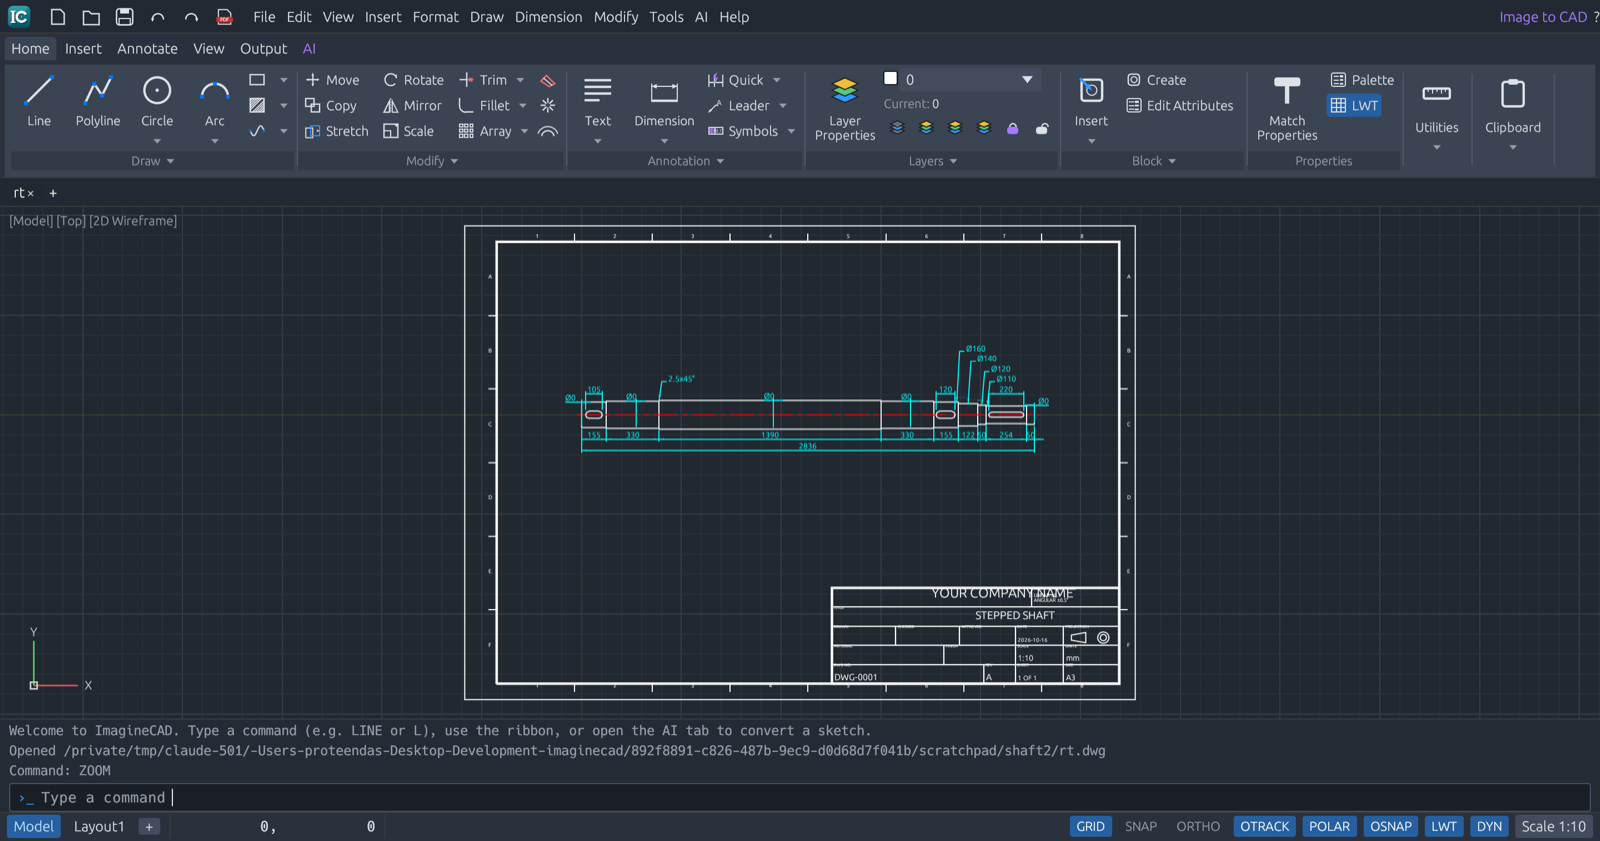
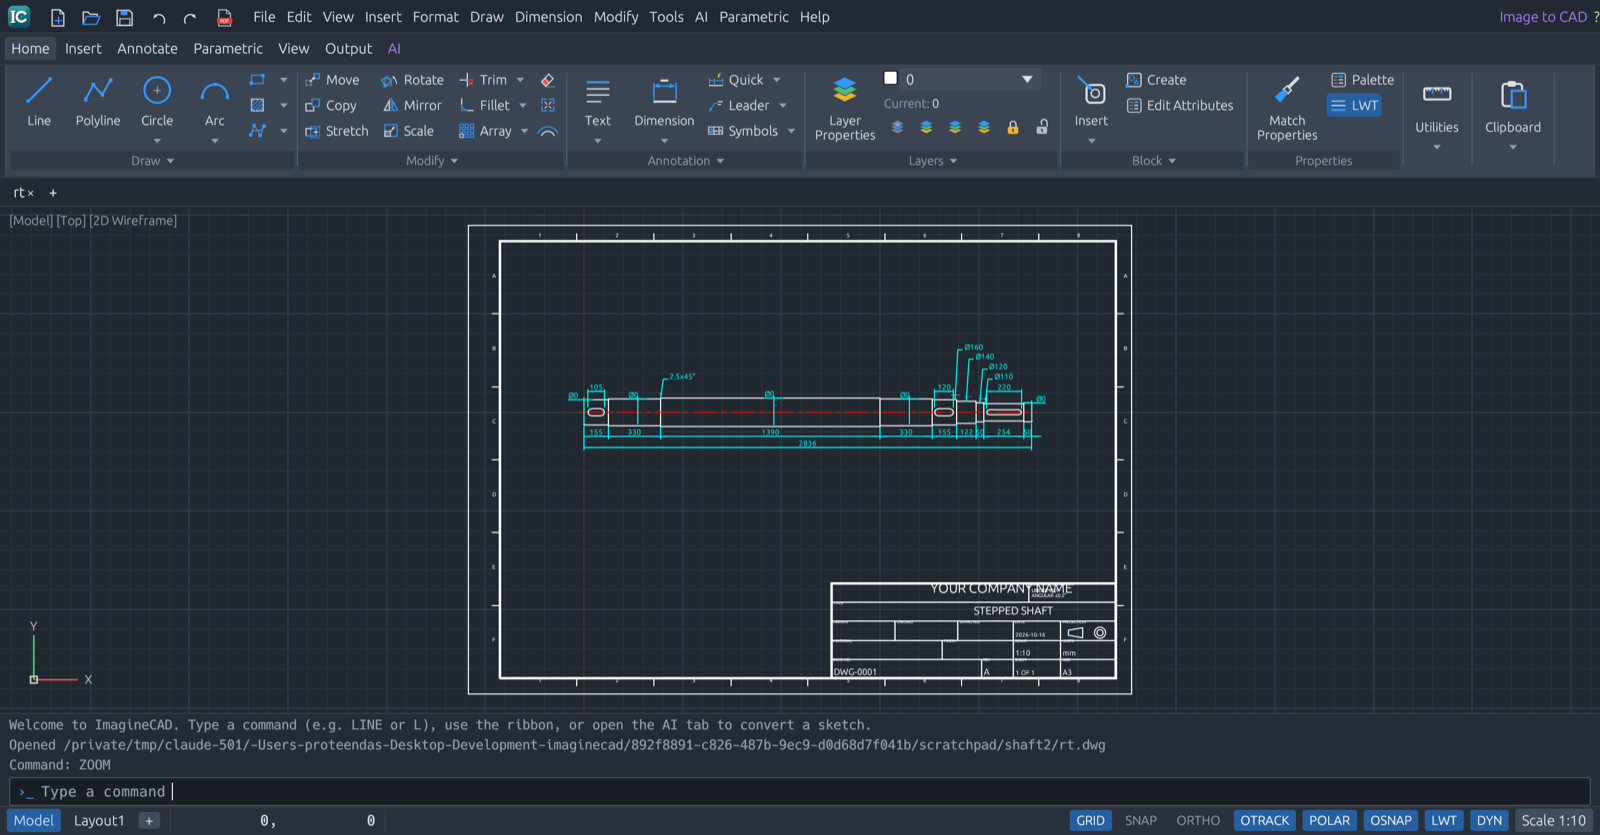
Release 0.4.0
- Version 0.4.0; changelog, roadmap (0.4 current, 0.5 next), user guide
  (sheet sets, markup and parts lists, dimension text, parametric
  drafting), AI guide (gears, springs, line types and hatching), file
  formats (revision clouds, constraints, .icadset) and architecture.
- Fresh screenshots with the new icons, and one of parametric drafting.
- RIBBON command to show a ribbon tab by name.

diff --git a/crates/imaginecad/src/app.rs b/crates/imaginecad/src/app.rs
@@ -397,6 +397,14 @@ impl App {
             "XREF" | "XR" | "EXTERNALREFERENCES" => self.dlg.xref = true,
             "SHEETSET" | "SSM" | "SHEETSETMANAGER" => self.dlg.sheetset = true,
             "PARAMETERS" | "PAR" | "PARAM" => self.dlg.parameters = true,
+            "RIBBON" => {
+                // Show a ribbon tab by name (RIBBON PARAMETRIC).
+                let want = args.first().map(|a| a.to_ascii_lowercase()).unwrap_or_default();
+                match crate::ribbon::TABS.iter().position(|t| t.to_ascii_lowercase().starts_with(&want) && !want.is_empty()) {
+                    Some(i) => self.ribbon_tab = i,
+                    None => self.log.push(format!("Ribbon tabs: {}", crate::ribbon::TABS.join(", "))),
+                }
+            }
             "CONSTRAINTBAR" | "CBAR" => {
                 self.settings.show_constraints ^= true;
                 self.log.push(format!("Constraint glyphs {}.", if self.settings.show_constraints { "shown" } else { "hidden" }));

diff --git a/crates/imaginecad/src/menus.rs b/crates/imaginecad/src/menus.rs
@@ -70,6 +70,7 @@ pub const MENUS: &[(&str, &[Entry])] = &[
             ("Paper Layout", "LAYOUT"),
             ("Model", "MODEL"),
             ("-", ""),
+            ("Parametric Ribbon", "RIBBON PARAMETRIC"),
             ("Properties Palette", "PROPERTIES"),
             ("AI Chat Panel", "AICHAT"),
         ],

diff --git a/crates/imaginecad/src/commands.rs b/crates/imaginecad/src/commands.rs
@@ -340,6 +340,7 @@ pub const COMMANDS: &[(&str, &str)] = &[
     ("DELCONSTRAINT", "DELCON"),
     ("PARAMETERS", "PAR"),
     ("CONSTRAINTBAR", "CBAR"),
+    ("RIBBON", ""),
     ("DIMARRANGE", "DARR"),
     ("BOM", ""),
     ("BALLOON", "BAL"),

diff --git a/docs/AI_SKETCH_TO_CAD.md b/docs/AI_SKETCH_TO_CAD.md
@@ -102,6 +102,8 @@ accepts `--api-key` (auto-detected the same way).
    - **Part reconstruction.** The model also describes the part, using the written values:
      - a turned **shaft** (stepped diameters, keyways, chamfers);
      - a **round part**: ring, washer, bush, flange (hub, bolt circle), wheel or pulley (rim, web, hub, V-grooves, bore keyway), drawn as an end view plus a hatched section;
+     - a **spur gear** (module, number of teeth, pressure angle, face width, bore, hub, keyway), drawn with true involute teeth, a hatched section and a gear data table;
+     - a helical **compression spring** (wire, outside diameter, free length, active and total coils, ground ends), drawn in section with a spring data table;
      - a rectangular **plate** with holes;
      - any other **profile**: exact lines, arcs, circles and polylines in millimetres, with views placed in projection, plus the dimensions it read.
      ImagineCAD builds the drawing directly from that description, with every value dimensioned and the dimensions laid out clear of the part and of each other on a sheet sized for it. Turn this off with **Let AI rebuild the part exactly from the written dimensions**.
@@ -109,12 +111,13 @@ accepts `--api-key` (auto-detected the same way).
      - against the values the model read: every written length, diameter and angle must be used, and every diameter in the description must be written;
      - for gaps: a step or groove without a size;
      - for a profile, by measuring every dimension on its own geometry, and checking that its points lie on that geometry.
-     A description with problems is sent back once with the list of problems ("the sketch shows Ø140 but no segment has that diameter", "the dimension 50 measures 48 on the geometry"). If it still does not check out, it is not drawn: the sketch is traced with the values instead (steps 2–6) and the reason is reported.
+     A description with problems is sent back once with the list of problems ("the sketch shows Ø140 but no segment has that diameter", "the dimension 50 measures 48 on the geometry"). If it still does not check out, it is not drawn: the sketch is traced with the values instead (steps 2–7) and the reason is reported.
 2. **Vectorising (computer vision).** Adaptive thresholding, removal of handwriting, specks and a printed sheet border, Zhang–Suen thinning, skeleton tracing, Douglas–Peucker lines and least-squares circle/arc fits. An arc is accepted only where the stroke curves evenly, so obtuse corners and a straight run meeting a fillet stay separate.
 3. **Part vs. annotation.** Components that enclose real area are the part. For each label the pipeline finds its dimension line, extension lines (following them through outline crossings) and arrowheads; leader arrows decide which hole a Ø/R value belongs to; an angle value goes to the corner it sits in. A label next to an outline edge with no dimension line of its own dimensions that edge.
-4. **Beautification and views.** Snap angles, merge strokes, align coordinates, weld endpoints, close T-junctions. Separate views (front above top, side beside front) are recognised and their edges snapped to each other, so hand-drawn misalignment between views does not carry over.
-5. **Making dimensions true.** The distinct x and y coordinates become *stations*. Horizontal and vertical dimensions are hard constraints, undimensioned gaps are springs that keep the sketch's proportions, and a least-squares solve per axis repositions everything through a monotone map. Contradictory dimensions are dropped and reported.
-6. **Slanted lengths, angles and radii.** A Levenberg–Marquardt solve over the outline vertices then enforces what one axis at a time cannot: slanted lengths, angles between edges, arc radii and fillet tangency, while horizontal and vertical edges and dimensions stay as solved.
+4. **Drafting conventions.** Rows of short collinear strokes with clear gaps become hidden lines (equal dashes) or centre lines (long and short dashes). A regular family of parallel strokes at about 45° running from edge to edge becomes section hatching filling the regions it covers. Handwriting is not taken for hatching.
+5. **Beautification and views.** Snap angles, merge strokes, align coordinates, weld endpoints, close T-junctions. Separate views (front above top, side beside front) are recognised and their edges snapped to each other, so hand-drawn misalignment between views does not carry over.
+6. **Making dimensions true.** The distinct x and y coordinates become *stations*. Horizontal and vertical dimensions are hard constraints, undimensioned gaps are springs that keep the sketch's proportions, and a least-squares solve per axis repositions everything through a monotone map. Contradictory dimensions are dropped and reported.
+7. **Slanted lengths, angles and radii.** A Levenberg–Marquardt solve over the outline vertices then enforces what one axis at a time cannot: slanted lengths, angles between edges, arc radii and fillet tangency, while horizontal and vertical edges and dimensions stay as solved.
 
 ## Tips
 
@@ -126,7 +129,7 @@ accepts `--api-key` (auto-detected the same way).
 ## Limitations
 
 - How exact a rebuilt part is depends on the model reading the sketch correctly; the checks above stop wrong descriptions, but cannot recover a value no model could read.
-- When tracing (no usable description), section hatching and hidden lines are traced as plain strokes; check them on the `AI-REVIEW` layer.
+- Dense, finely printed hatching (CAD printouts) is traced as strokes rather than recognised as a hatch; hand-drawn hatching is recognised.
 - Very large outlines (more than 160 vertices) skip the slanted/angle refinement; horizontal and vertical dimensions are still exact.
 - Keyway widths that are not written on the sketch are drawn at a nominal width; check them.
 - Threads and surface-finish symbols are not recognised.

diff --git a/docs/USER_GUIDE.md b/docs/USER_GUIDE.md
@@ -328,6 +328,78 @@ sheet, drawn over the model) and any number of **paper layouts**:
 
 Layouts are saved in `.icad` drawings; DXF/DWG exports contain the main sheet.
 
+## Sheet sets
+
+`SHEETSET` (`SSM`, Output → Sheet Set) opens the **Sheet Set Manager**: a
+named, ordered set of sheets from any number of drawings, saved as an
+`.icadset` file next to them (double-click it to open the manager).
+
+- **+ Current drawing** / **+ Drawings…** add each drawing's main sheet and its
+  layouts. Give every sheet a number and a title; **Renumber** numbers them in
+  order; ▲ ▼ reorder, × removes, **Open** shows the sheet.
+- The **project values** (company, drawn, checked and approved by, a drawing
+  number prefix such as `GB-`) are shared by every title block.
+- **Publish set to PDF…** plots every sheet into one PDF with its set number,
+  title and `n OF N` in its title block, without changing the drawings
+  (`imaginecad publish SET.icadset -o OUT.pdf` does the same from a script).
+- **Update title blocks** writes the numbering and values into the drawings
+  themselves (open drawings change as one undo step; closed ones are saved).
+- **Insert sheet list** places a sheet index table in the current drawing.
+
+## Markup and parts lists
+
+- **Revision clouds** (`REVCLOUD`, `RC`; Annotate → Markup): two corners for a
+  rectangular cloud, **P** for a polygonal one, **O** to turn a closed
+  polyline, circle or ellipse into a cloud, **A** for the arc length (scaled to
+  the sheet by default). Grips move the cloud's corners.
+- **Bill of materials** (`BOM`): a parts list built from the block references
+  in the drawing, one item per block and set of attribute values, with the
+  quantity counted and columns for `PART_NO`, `DESCRIPTION`, `MATERIAL` and
+  any other attributes (the block name describes blocks without attributes).
+  Run `BOM` again after changes to refresh it in place.
+- **Balloons** (`BALLOON`): Enter balloons every BOM item at once, round the
+  drawing, each in the direction of its part and spread so they keep clear of
+  each other; or pick one part and place its balloon.
+
+## Keeping dimension text clear
+
+Dimension text moves itself to the nearest clear place when it would overlap
+other text or run through the part: along its dimension line first, then one
+row further out (radius and diameter text swings round the circle). This
+happens when a dimension is placed and when the points it measures move;
+text you drag on purpose stays where you put it. `DIMARRANGE` (`DARR`) tidies
+selected dimensions, or all of them, for drawings made elsewhere.
+
+## Parametric drafting
+
+Constraints keep relationships true while you edit (Parametric tab and menu).
+
+**Geometric constraints** apply to lines, polyline segments, circles and arcs:
+`GCHORIZONTAL`, `GCVERTICAL`, `GCPARALLEL`, `GCPERPENDICULAR`, `GCCOLLINEAR`,
+`GCEQUAL` (lengths or radii), `GCCOINCIDENT` (two points), `GCCONCENTRIC`,
+`GCTANGENT` (line and circle, or two circles), `GCFIX` (hold a point).
+`AUTOCONSTRAIN` (`AC`) adds the obvious ones to a selection: horizontal and
+vertical edges, joined end points, tangent arcs, concentric circles.
+
+**Driving dimensions** set sizes by name: `DCHORIZONTAL`, `DCVERTICAL`,
+`DCALIGNED`, `DCRADIUS`, `DCDIAMETER`, `DCANGULAR`. Each is named `d1`, `d2`,
+… and takes a value or an expression of the others, for example `d2 = d1 / 2`
+or `d3 = sqrt(d1^2 + d2^2)` (operators `+ - * / ^`, `sqrt`, `sin`, `cos`,
+`tan` in degrees, `abs`, `pi`). Type it when placing the dimension, or edit it
+in the **Parameters** manager (`PARAMETERS`, `PAR`); the geometry follows, and
+grows from the dimension's first point.
+
+After every edit the constraints are solved again: what you drag or move
+stays exactly where you put it when the constraints allow, and the rest
+adapts. A constraint that contradicts the others is refused. The log reports
+how many degrees of freedom remain (0 = fully constrained).
+
+Teal glyphs mark the constraints (H, V, //, ⊥, =, T, ◎, F; a dot for
+coincident points) and driving dimensions show as `d1=50`; neither is plotted.
+`CONSTRAINTBAR` (`CBAR`) hides or shows the glyphs; `DELCONSTRAINT` removes the
+constraints of the selected objects (or all). Constraints are saved in `.icad`
+drawings; DXF and DWG files keep the geometry only.
+
 ## Files
 
 | Action | Formats |

diff --git a/README.md b/README.md
@@ -39,6 +39,7 @@
 
 ## Highlights
 
+- **Parametric drafting.** Geometric constraints (parallel, tangent, coincident…) and named driving dimensions with expressions (`d2 = d1 / 2`) keep a design's relationships true as you edit.
 - **Industry-standard drafting workflow.** Ribbon that fits any window, a menu bar with every command, command line with aliases and autocomplete, object snaps, polar tracking, ortho, grips, layers, a properties palette, blocks, hatching, dimensions and leaders, model and paper layouts.
 - **Open, edit and save DWG and DXF.** DWG support ships inside the installer (GNU LibreDWG), and the free ODA File Converter is used automatically when installed. DXF 2000 is written natively with full fidelity, or R12 for maximum compatibility.
 - **Image to CAD.** Upload a photo of a hand-drawn mechanical sketch. An AI model reads the handwritten dimensions and describes the part (shafts, rings, flanges, pulleys, plates, or any profile); the description is validated against the written values and its own geometry before it is drawn. Otherwise computer vision traces the sketch and a solver makes every dimension exact, including slanted lengths, angles and fillet radii, across aligned views. You get an editable drawing with a title block, with the sketch overlaid for review.
@@ -50,9 +51,9 @@
 |---|---|
 | ![sketch](docs/images/ai.png) | ![layout](docs/images/layout.png) |
 
-| A DWG file opened for editing |
-|---|
-| ![DWG](docs/images/dwg.png) |
+| A DWG file opened for editing | Parametric drafting |
+|---|---|
+| ![DWG](docs/images/dwg.png) | ![Parametric](docs/images/parametric.png) |
 
 ## Feature overview
 
@@ -60,12 +61,14 @@
 |---|---|
 | Draw | `LINE` `PLINE` `CIRCLE` `ARC` `RECTANG` `POLYGON` `ELLIPSE` `SPLINE` `POINT` `XLINE` `RAY` `HATCH` |
 | Modify | `MOVE` `COPY` `ROTATE` `SCALE` `MIRROR` `STRETCH` `OFFSET` `TRIM` `EXTEND` `FILLET` `CHAMFER` `BREAK` `BREAKATPOINT` `JOIN` `LENGTHEN` `ARRAYRECT` `ARRAYPOLAR` `EXPLODE` `ERASE` `OOPS` `MATCHPROP` `DIVIDE` `MEASURE` `OVERKILL` |
-| Annotate | `TEXT` `MTEXT` `TEXTEDIT` `LEADER` `DIMLINEAR` `DIMALIGNED` `DIMANGULAR` `DIMRADIUS` `DIMDIAMETER` `DIMBASELINE` `DIMCONTINUE` `CENTERMARK` `DIMSTYLE` |
+| Annotate | `TEXT` `MTEXT` `TEXTEDIT` `LEADER` `MLEADER` `DIMLINEAR` `DIMALIGNED` `DIMANGULAR` `DIMRADIUS` `DIMDIAMETER` `DIMORDINATE` `DIMARC` `QDIM` `DIMBASELINE` `DIMCONTINUE` `DIMARRANGE` `CENTERMARK` `DIMSTYLE` `TOLERANCE` `DATUM` `SURFFINISH` `WELD` `TABLE` `STYLE` `SPELL` |
+| Markup | `REVCLOUD`, `BOM` (bill of materials), `BALLOON` |
+| Parametric | `GCHORIZONTAL` `GCVERTICAL` `GCPARALLEL` `GCPERPENDICULAR` `GCCOLLINEAR` `GCEQUAL` `GCCOINCIDENT` `GCCONCENTRIC` `GCTANGENT` `GCFIX` `AUTOCONSTRAIN`, driving dimensions `DCHORIZONTAL` `DCVERTICAL` `DCALIGNED` `DCRADIUS` `DCDIAMETER` `DCANGULAR`, `PARAMETERS` |
 | Blocks & references | `BLOCK` `INSERT` Blocks palette, `IMAGEATTACH` raster underlays, `PURGE` |
 | Layers | Layer Properties Manager, `LAYISO` `LAYUNISO` `LAYOFF` `LAYON` `LAYLCK` `LAYULK` `LAYMCUR` |
 | Inquiry & selection | `DIST` `AREA` `ID` `LIST` `QSELECT` `SELECTALL` |
 | Precision | typed coordinates (`x,y`, `@dx,dy`, `@d<a`), direct distance, object snaps (end, mid, center, quadrant, intersection, perpendicular, insertion, node, nearest), polar tracking, ortho, grid snap, dynamic input |
-| Sheets & output | paper sizes A4–A0/ANSI, ISO scales, title block, `PLOT` to PDF, export DWG/DXF/SVG, `UNITS` |
+| Sheets & output | paper sizes A4–A0/ANSI, ISO scales, title block, layouts and viewports (`LAYOUTNEW` `MVIEW`), plot styles, `PLOT` to PDF, `PUBLISH`, sheet sets (`SHEETSET`), export DWG/DXF/SVG, `UNITS` |
 | AI | `IMAGETOCAD`, `AICHAT` (edit by conversation), `AISETUP` (any API key), `AISETTINGS`, headless `imaginecad convert` and `imaginecad ask` |
 
 See the [User Guide](docs/USER_GUIDE.md) for every command and option.

diff --git a/docs/ARCHITECTURE.md b/docs/ARCHITECTURE.md
@@ -103,6 +103,20 @@ selection (`select_box`), extents, and ByLayer resolution
 (`color_of`, `linetype_of`, `lineweight_of`). New documents use a mechanical
 template: layers `0`, `OUTLINE`, `HIDDEN`, `CENTER`, `DIMENSIONS`, `TEXT`.
 
+### Constraints, markup, sheet sets (`constraints.rs`, `markup.rs`, `arrange.rs`, `sheetset.rs`)
+
+`constraints.rs` holds geometric constraints and named driving dimensions
+over entity points (`PtRef`: line ends, polyline vertices, circle and arc
+centres and ends) and segments, an expression evaluator for the driving
+values, and the solver: every point of a constrained entity and every circle
+radius is an unknown; a damped Gauss–Newton solve with a weak, re-anchored
+pull to the current geometry meets the constraints while moving it least;
+preferred points (what the user dragged) are first held exactly. The rank of
+the constraint Jacobian gives the remaining degrees of freedom. `markup.rs`
+has revision clouds and the bill of materials with balloon placement;
+`arrange.rs` moves dimension text clear of other text and of the part;
+`sheetset.rs` is the `.icadset` model.
+
 ### Sheet and title block (`sheet.rs`)
 The sheet lives in model space: its lower-left corner is `origin` and it spans
 `paper_mm × scale` drawing units. Plotting therefore maps model space to paper
@@ -205,6 +219,9 @@ A detailed walk-through is in [AI_SKETCH_TO_CAD.md](AI_SKETCH_TO_CAD.md).
 | `dialogs2.rs` | Blocks palette, Quick Select, text editor, Units |
 | `secrets.rs` | API key storage (Keychain / Credential Manager / owner-only file) |
 | `ribbon.rs`, `icons.rs` | Ribbon tabs/panels (collapsing to dropdowns to fit the window) and vector-drawn icons |
+| `constraints_ui.rs` | Constraint commands, AUTOCONSTRAIN, driving dimensions, the Parameters manager, canvas glyphs, solving after edits |
+| `commands_markup.rs` | REVCLOUD, BOM, BALLOON, DIMARRANGE |
+| `sheetset_ui.rs` | Sheet Set Manager, set publishing |
 | `menus.rs` | The menu bar: every command, grouped, with its alias (a test keeps it complete) |
 | `macos_open.rs` | Finder's open-documents Apple event (double-click, Open With, Dock) |
 | `chat.rs` | AI Chat panel |

diff --git a/CHANGELOG.md b/CHANGELOG.md
@@ -6,6 +6,19 @@ All notable changes to ImagineCAD are documented here. The format follows
 
 ## [Unreleased]
 
+## [0.4.0] - 2026-10-16
+
+### Added
+- **Parametric drafting:** geometric constraints on lines, polyline segments, circles and arcs (`GCHORIZONTAL`, `GCVERTICAL`, `GCPARALLEL`, `GCPERPENDICULAR`, `GCCOLLINEAR`, `GCEQUAL`, `GCCOINCIDENT`, `GCCONCENTRIC`, `GCTANGENT`, `GCFIX`), `AUTOCONSTRAIN`, and named driving dimensions (`DCHORIZONTAL`, `DCVERTICAL`, `DCALIGNED`, `DCRADIUS`, `DCDIAMETER`, `DCANGULAR`) whose values may be expressions of each other, edited in the **Parameters** manager. A least-squares solve keeps every constraint true after each edit, holds what you drag exactly where you put it when possible, refuses conflicting constraints and reports the remaining degrees of freedom. Constraint glyphs and driving dimensions on the canvas (`CONSTRAINTBAR`, `DELCONSTRAINT`); a Parametric ribbon tab and menu.
+- **Revision clouds** (`REVCLOUD`): rectangular, polygonal or from an object, with a settable arc length; saved to DXF/DWG as bulged polylines.
+- **Bill of materials** (`BOM`) built from the block references and their attributes, refreshed in place; **balloons** (`BALLOON`) numbered to match, placed automatically round the drawing or one at a time.
+- **Sheet sets** (`SHEETSET`): sheets from many drawings with numbers, titles and shared title block values; publish the set to one PDF (also `imaginecad publish`), update the drawings' title blocks, insert a sheet list. `.icadset` files open by double-click.
+- **Dimension text keeps clear** of other text and of the part when placed or when its geometry moves; `DIMARRANGE` tidies existing drawings.
+- **Image to CAD:** spur gears with true involute teeth and gear data, compression springs with spring data; hidden lines, centre lines and section hatching recognised when tracing.
+
+### Changed
+- Redesigned icon set: one visual language throughout (neutral line work, blue for what a tool creates, red for what it removes, violet for AI), crisp at every size; new icons for the new tools.
+
 ## [0.3.0] - 2026-10-16
 
 ### Added

diff --git a/docs/ROADMAP.md b/docs/ROADMAP.md
@@ -4,7 +4,30 @@ ImagineCAD's goal is complete day-to-day 2D mechanical drafting at the level
 of mature commercial CAD suites, plus AI sketch conversion. This page is an
 honest map of what exists and what is next.
 
-## 0.3 (current)
+## 0.4 (current)
+
+Everything in 0.3, plus:
+
+**Parametric drafting:** geometric constraints (horizontal, vertical,
+parallel, perpendicular, collinear, equal, coincident, concentric, tangent,
+fix) and named driving dimensions with expressions, solved after every edit;
+AUTOCONSTRAIN; the Parameters manager.
+
+**Markup:** revision clouds, an automatic bill of materials and numbered
+balloons.
+
+**Sheets:** sheet sets with numbering, shared title block values, set
+publishing and sheet lists.
+
+**Annotation:** dimension text that moves itself clear of other text and of
+the part.
+
+**AI:** gears (true involute teeth) and compression springs as part types;
+hidden lines, centre lines and section hatching recognised when tracing.
+
+**Interface:** a redesigned, consistent icon set.
+
+## 0.3
 
 Everything in 0.2, plus:
 
@@ -40,13 +63,13 @@ Core drafting, modify and dimension commands, layers, blocks, hatching, DWG via
 bundled LibreDWG, DXF 2000/R12, PDF/SVG, Image to CAD with any provider's key,
 installers for macOS, Windows and Linux.
 
-## Next (0.4)
+## Next (0.5)
 
-- [ ] Geometric and dimensional constraints (parametric drafting)
-- [ ] Revision clouds, balloons and an automatic bill of materials
-- [ ] Image to CAD: section hatching and hidden lines recognised when tracing; gears and springs as part types
-- [ ] Sheet sets
-- [ ] Dimension text that moves itself clear of other annotation when edited
+- [ ] Constraints round-tripped through DXF/DWG
+- [ ] Dynamic blocks (stretch, flip, visibility, lookup parameters)
+- [ ] Image to CAD: threads and surface-finish symbols recognised; multi-part assembly sketches with a BOM
+- [ ] Section views generated from a cutting line (SECTIONVIEW) and detail views
+- [ ] Plot stamps and PDF/A output
 
 ## Later
 

diff --git a/docs/FILE_FORMATS.md b/docs/FILE_FORMATS.md
@@ -57,6 +57,11 @@ codes kept in extended data. The header carries `$DIMSCALE` and the dimension
 style (`$DIMTXT`, `$DIMASZ`, `$DIMEXO`, `$DIMEXE`, `$DIMGAP`, `$DIMDEC`), and
 reading restores them, so a drawing keeps its annotation scale.
 
+Revision clouds are written as closed `LWPOLYLINE`s of bulged segments (how
+other programs draw them) with extended data that keeps them clouds for
+ImagineCAD. Constraints and driving dimensions are kept in `.icad` drawings
+only; DXF and DWG files contain the geometry they produced.
+
 **R12 (option):** for very old readers. Entities newer than R12 are written as
 equivalents: ellipses and splines become polylines, hatches become lines or
 solids, multiline text becomes text lines, and construction lines become long
@@ -82,7 +87,16 @@ definitions**. Shapes: `Line`, `Circle`, `Arc` (CCW), `Polyline`, `Text`, `Dim`
 `Leader`, `Image`. Version 1 files open unchanged.
 
 Raster images are stored by file path (like external references), so keep the
-image with the drawing.
+image with the drawing. Constraints are stored in `constraints` (geometric
+ones by entity id and point index, driving dimensions with their name,
+expression and value).
+
+## `.icadset`
+
+A sheet set (JSON): its name, the shared title block values (company,
+project, drawn, checked and approved by, drawing number prefix) and the
+ordered sheets, each with its drawing file (relative to the set file), layout
+(none for the main sheet), number and title.
 
 ## PDF
 

diff --git a/docs/RELEASING.md b/docs/RELEASING.md
@@ -29,9 +29,9 @@ Every platform job also:
 
 ```bash
 # 1. bump `version` in the root Cargo.toml and add a CHANGELOG.md entry
-git commit -am "Release 0.3.0"
+git commit -am "Release 0.4.0"
 # 2. tag and push
-git tag v0.3.0
+git tag v0.4.0
 git push origin main --tags
 ```
 
